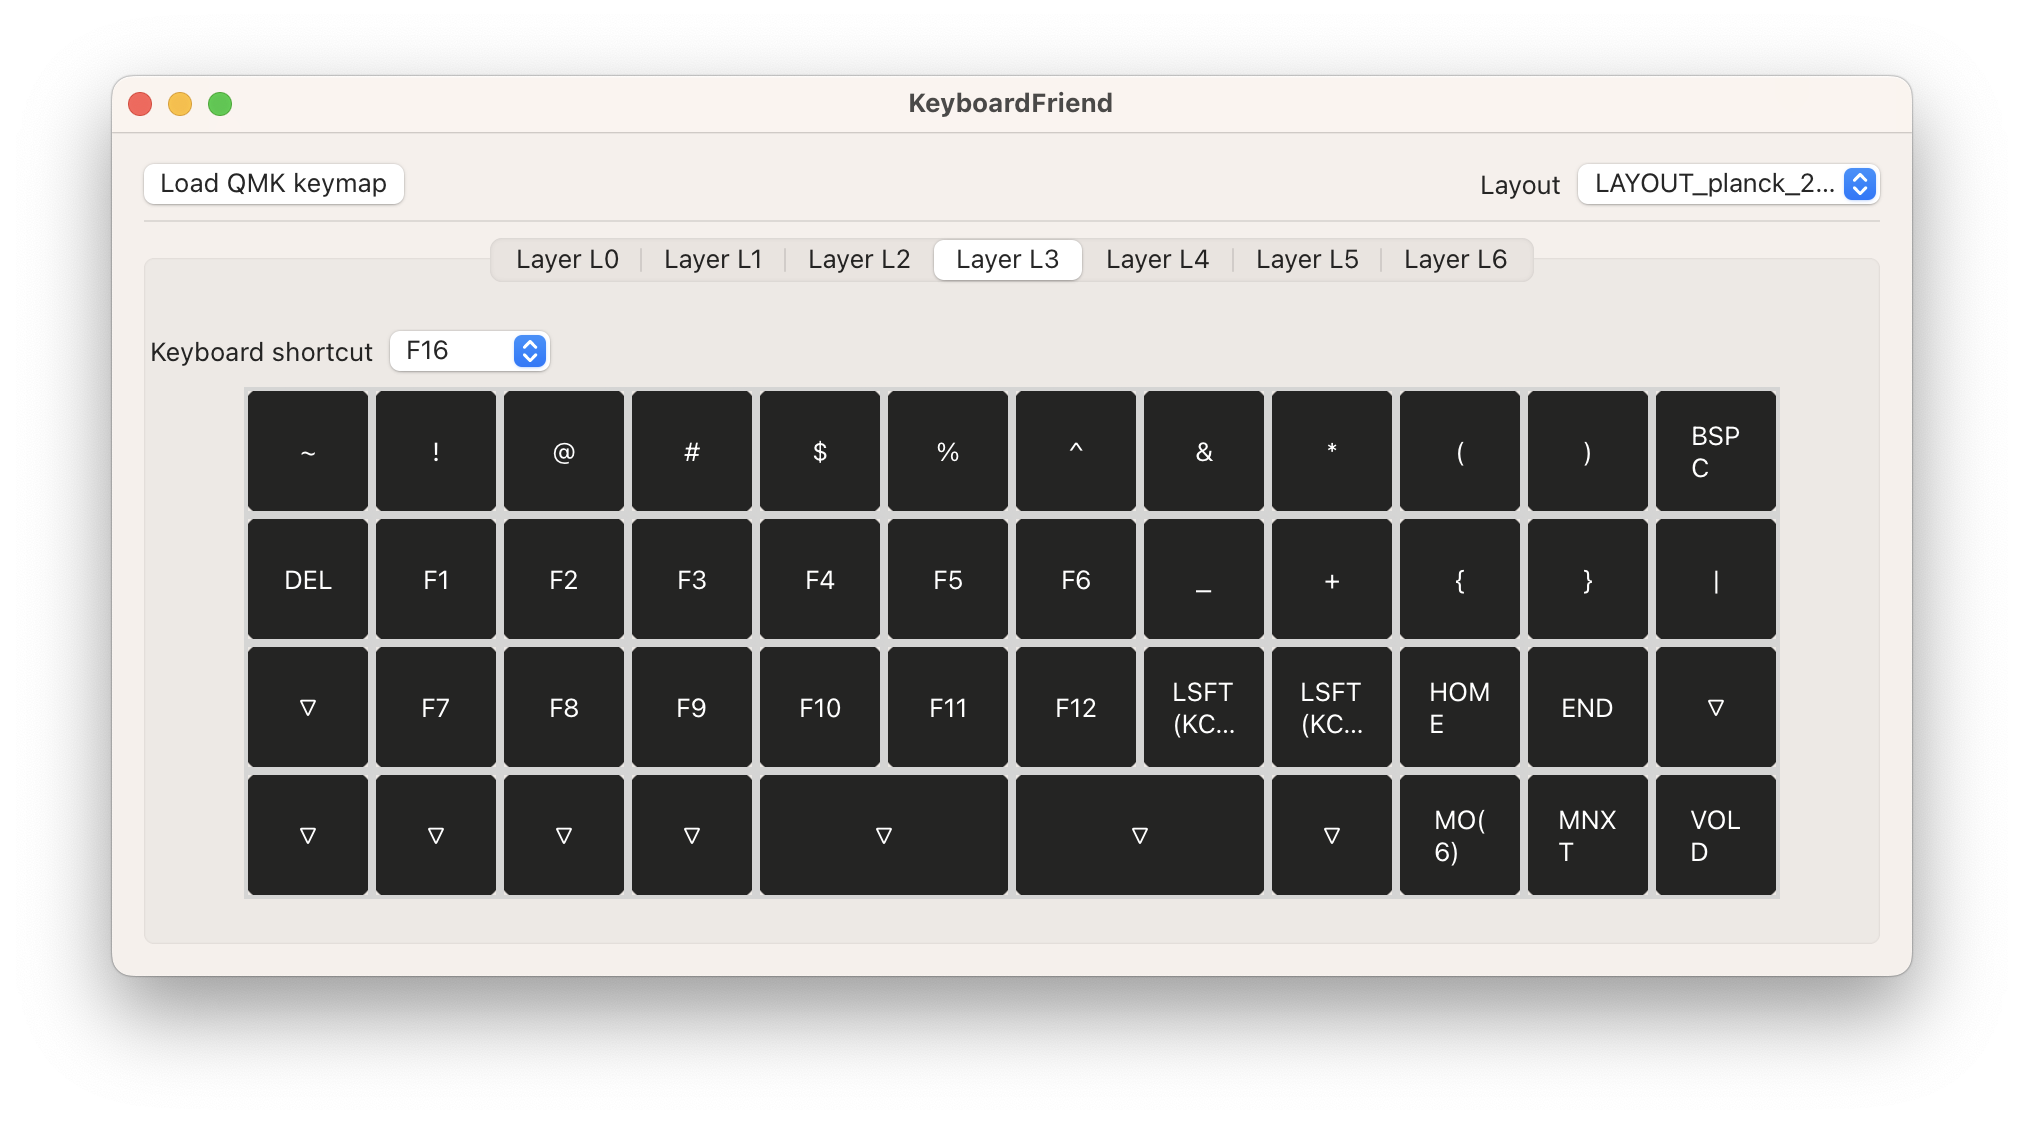
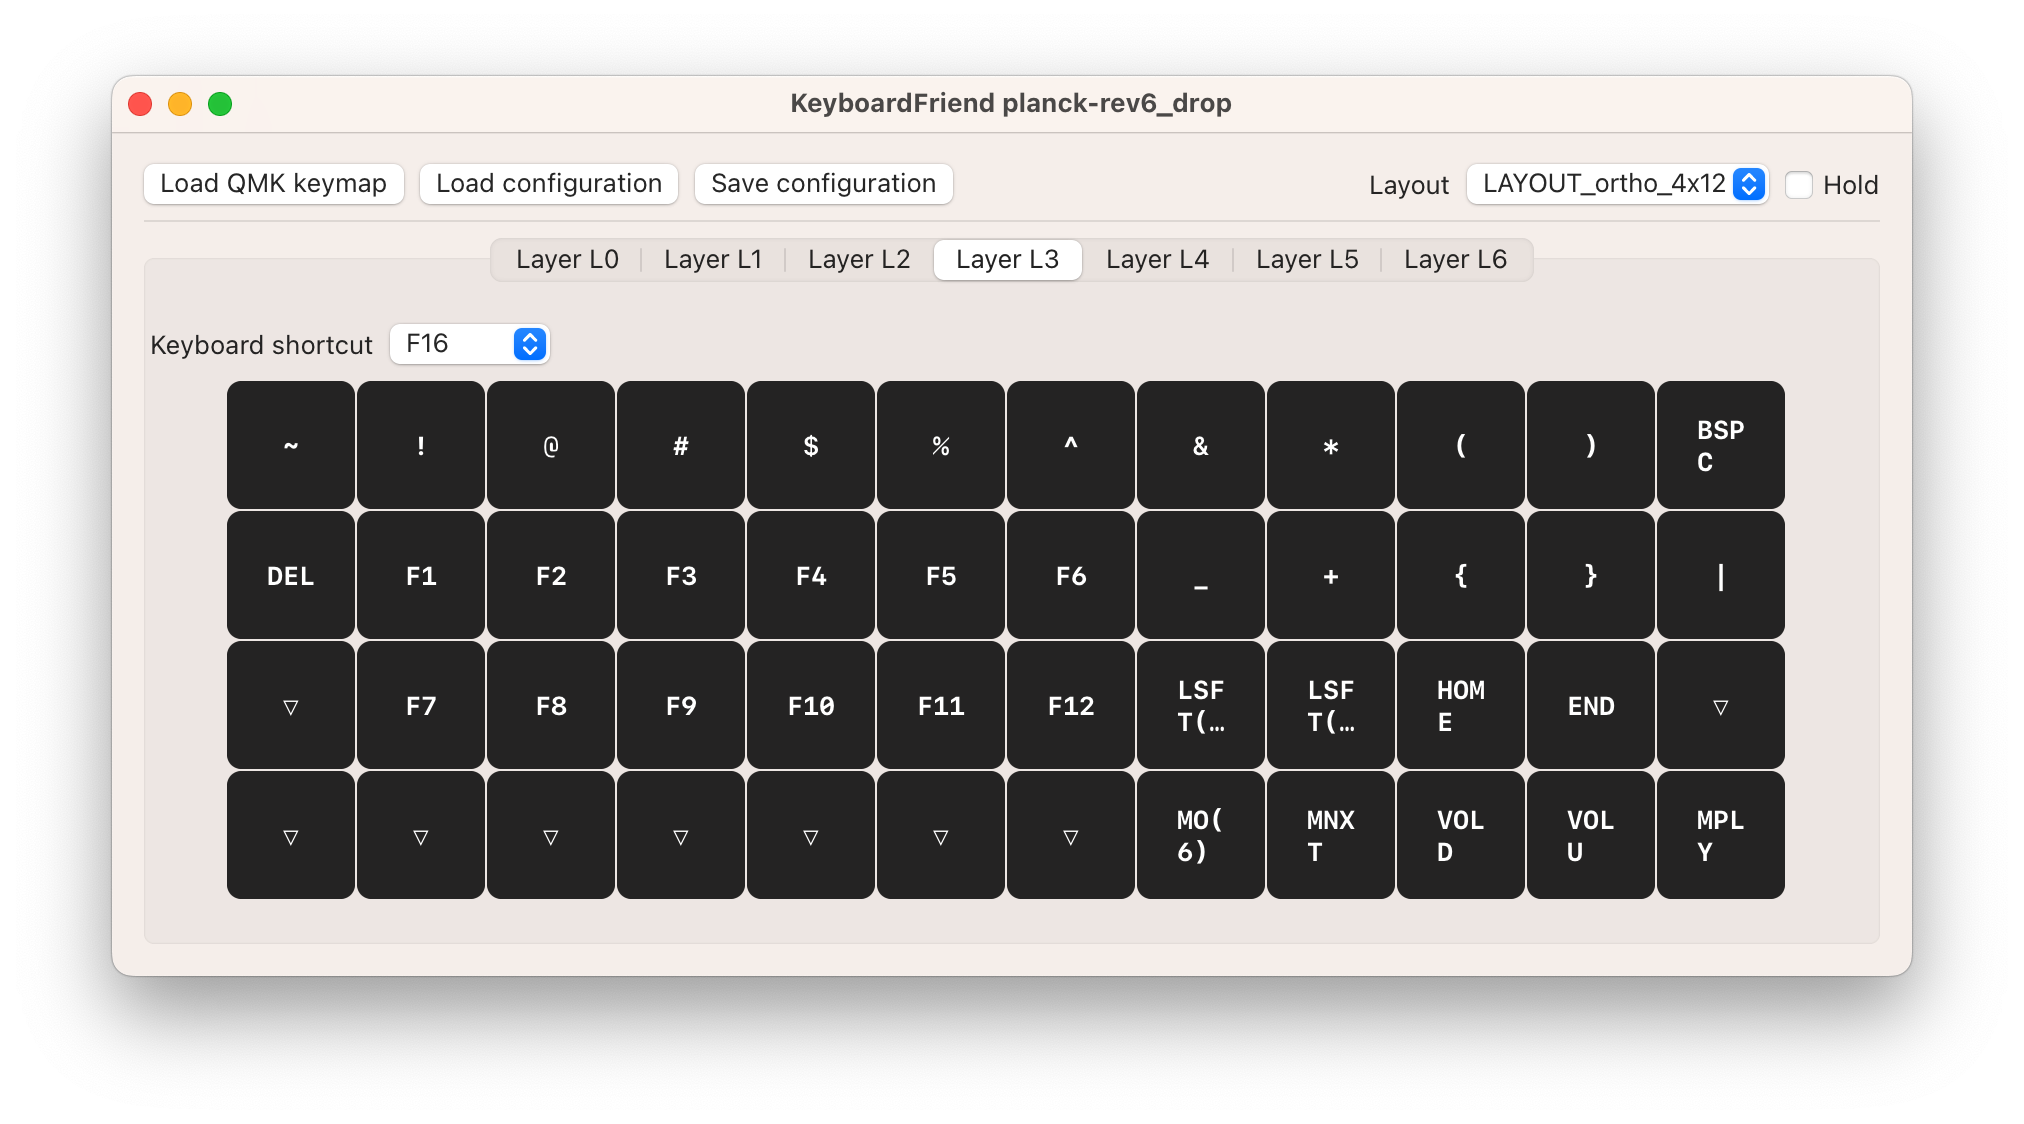
refactoring keyboard drawing

diff --git a/KeyboardFriend/KeyboardView.swift b/KeyboardFriend/KeyboardView.swift
@@ -18,21 +18,13 @@ struct KeyboardView: View {
             ForEach(layer , id: \.matrix) {
                 keyButton in
                 let width = keyButton.w
-                RoundedRectangle(cornerRadius: scale/6)
-                    .frame(width: width * scale , height: scale)
-                    .border(.bar, width: 2)
-                    .overlay(
-                        Text(QMKKeycodeMap.convertQMKKeycode(keyButton.text))
-                            .foregroundColor(.white)
-                            .padding()
-                            .fontDesign(.monospaced)
-                            .fontWeight(.bold)
-                    )
+                Keycap(x: keyButton.x, y: keyButton.y, width: width, scale: scale, text: keyButton.text)
                     .position(x: ((keyButton.x + width/2.0) * scale), y: ((keyButton.y + 1.0/2.0) * scale))
+                    .offset(CGSize(width: keyButton.x + width/2.0, height:(keyButton.y + 1.0/2.0)))
             }
         }
         .drawingGroup()
-        .frame(width: (maxWidth+1.0) * scale, height: (maxHeight+1.0) * scale)
+        .frame(width: (maxWidth+1.28) * scale, height: (maxHeight+1.11) * scale)
     }
 }
 

diff --git a/KeyboardFriend/Keycap.swift b/KeyboardFriend/Keycap.swift
@@ -1,0 +1,35 @@
+//
+//  Keycap.swift
+//  KeyboardFriend
+//
+//  Created by Fredrik Lindner on 2023-07-13.
+//
+
+import SwiftUI
+
+struct Keycap: View {
+    let x, y: Double
+    
+    let width: Double
+    let scale: Double
+    let text: String
+    var body: some View {
+        RoundedRectangle(cornerRadius: scale/9, style: .circular)
+            .frame(width: width * scale , height: scale)
+            .overlay(
+                Text(QMKKeycodeMap.convertQMKKeycode(text))
+                    .foregroundColor(.white)
+                    .padding()
+                    .fontDesign(.monospaced)
+                    .fontWeight(.bold)
+            )
+            .frame(width: scale, height: scale)
+            .ignoresSafeArea()
+    }
+}
+
+struct Keycap_Previews: PreviewProvider {
+    static var previews: some View {
+        Keycap(x: 0, y: 0, width: 1, scale: 64, text: "A")
+    }
+}

diff --git a/KeyboardFriend/KeyboardSettingsView.swift b/KeyboardFriend/KeyboardSettingsView.swift
@@ -20,7 +20,6 @@ struct KeyboardSettingsView: View {
     var body: some View {
         VStack {
             HStack {
-                
                 Picker("Keyboard shortcut", selection: $hotkeySelection) {
                     Text("None").tag(nil as Hotkey?)
                     ForEach(hotkeys, id: \.keycode) {
@@ -32,10 +31,9 @@ struct KeyboardSettingsView: View {
                     .onReceive(kfKeyboardStore.$activeKeyboard) {
                         self.hotkeySelection = $0?.settings.hotkeys[layerName]
                     }
-                    .frame(maxWidth: 200)
-                }
+                    
+                }.frame(maxWidth: 200, maxHeight: 20)
                 Spacer()
-                
             }
             KeyboardView(maxWidth: maxWidth, maxHeight: maxHeight, layer: layer)
         }

diff --git a/KeyboardFriend/SettingsView.swift b/KeyboardFriend/SettingsView.swift
@@ -125,6 +125,7 @@ struct SettingsView: View {
             }.frame(maxHeight: .infinity)
         }
         .padding()
+        .navigationTitle("KeyboardFriend \(kfKeyboardStore.activeKeyboard?.name ?? "")")
     }
     
 }
